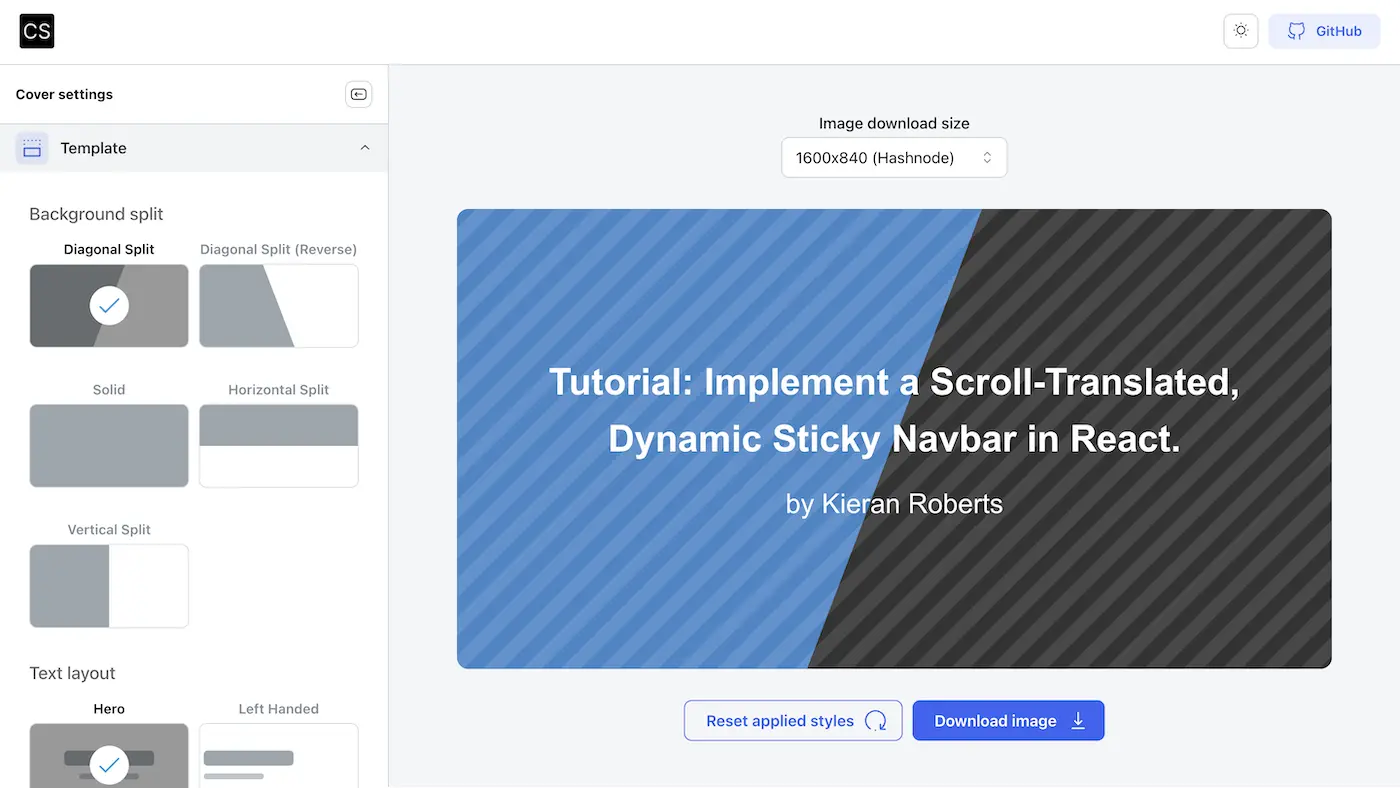
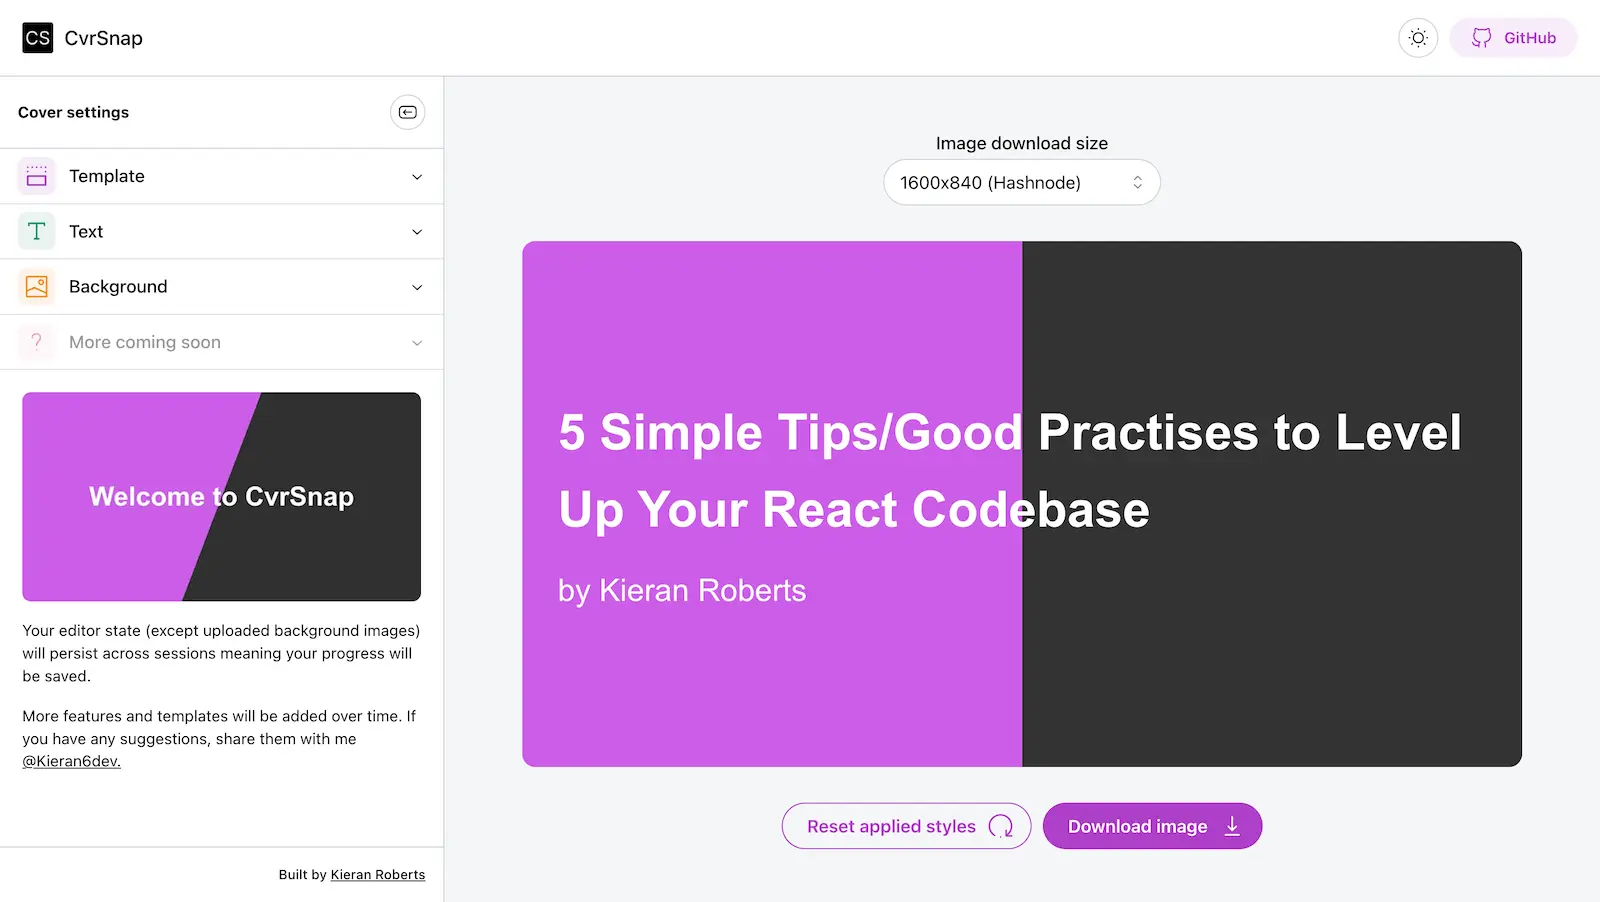
refactor: finalise theme

diff --git a/packages/frontend/app/features/editor/components/Drawer.tsx b/packages/frontend/app/features/editor/components/Drawer.tsx
@@ -9,9 +9,11 @@ import {
   Skeleton,
   Title,
   ThemeIcon,
-  ActionIcon
+  ActionIcon,
+  Image,
+  Stack
 } from '@mantine/core';
-import { Text as IconText, MediaImage, AlignBottomBox, Download, ArrowLeftTag } from 'iconoir-react';
+import { Text as IconText, MediaImage, AlignBottomBox, Download, ArrowLeftTag, QuestionMark } from 'iconoir-react';
 
 import classes from '~/features/editor/styles/EditorDrawer.module.css';
 import { TextSettings } from '~/features/editor/components/TextSettings';
@@ -21,14 +23,15 @@ import { useEditor, EditorHydration } from '~/shared/stores/EditorContext';
 import { useImageDownload } from '~/shared/hooks/useImageDownload';
 import { DownloadSuccessModal } from '~/shared/components/DownloadSuccessModal';
 import { useEditorUIStore } from '~/shared/stores/EditorUIStore';
-
+import welcomeImage from '~/images/welcome.webp';
+import { SITE_NAME } from '~/config/consts';
 const editSections = [
   {
     title: 'Template',
     content: () => <TemplateSettings />,
     icon: (
-      <ThemeIcon size="lg" radius="md" variant="light" color="var(--mantine-primary-color-8)">
-        <AlignBottomBox width={24} height={24} color="var(--mantine-primary-color-8)" />
+      <ThemeIcon size="lg" radius="md" variant="light" color="var(--mantine-color-grape-8)">
+        <AlignBottomBox width={24} height={24} color="var(--mantine-color-grape-8)" />
       </ThemeIcon>
     )
   },
@@ -49,6 +52,16 @@ const editSections = [
         <MediaImage width={24} height={24} color="var(--mantine-color-yellow-8)" />
       </ThemeIcon>
     )
+  },
+  {
+    title: 'More coming soon',
+    content: () => null,
+    icon: (
+      <ThemeIcon size="lg" radius="md" variant="light" color="var(--mantine-color-pink-8)">
+        <QuestionMark width={24} height={24} color="var(--mantine-color-pink-8)" />
+      </ThemeIcon>
+    ),
+    isDisabled: true
   }
 ];
 
@@ -80,6 +93,7 @@ export function Drawer({ imageNodeRef }: { imageNodeRef: React.RefObject<HTMLDiv
             aria-label={`Toggle ${item.title.toLowerCase()} editing`}
             icon={item.icon}
             className={classes.accordionControl}
+            disabled={!!item?.isDisabled}
           >
             <Flex gap="xs" align="center">
               <Text size="md" fw={500} className={classes['accordionControl-name']}>
@@ -113,14 +127,14 @@ export function Drawer({ imageNodeRef }: { imageNodeRef: React.RefObject<HTMLDiv
             visibleFrom="md"
             onClick={() => setDrawerOpen(false)}
             variant="default"
-            size={28}
+            size={32}
             title="Close sidebar"
             aria-label="Close sidebar"
           >
             <ArrowLeftTag width={18} height={18} />
           </ActionIcon>
         </Flex>
-        <ScrollArea visibleFrom="md" h="calc(100vh - 69px - 60px - 51px)">
+        <ScrollArea visibleFrom="md" h="calc(100vh - 69px - 60px - 55px)">
           <Accordion
             value={openSections}
             onChange={setOpenSections}
@@ -131,6 +145,24 @@ export function Drawer({ imageNodeRef }: { imageNodeRef: React.RefObject<HTMLDiv
           >
             {items}
           </Accordion>
+          <Stack m="lg" h="100%" className={classes['sidebar-help']}>
+            <Image src={welcomeImage} radius="md" alt={`Welcome to ${SITE_NAME} cover`} width={400} height={200} />
+            <Text size="sm">
+              Your editor state (except uploaded background images) will persist across sessions meaning your progress
+              will be saved.
+            </Text>
+            <Text size="sm">
+              More features and templates will be added over time. If you have any suggestions, share them with me{' '}
+              <a
+                href="https://x.com/Kieran6dev"
+                target="_blank"
+                rel="noreferrer"
+                className={classes['sidebar-help--name-link']}
+              >
+                @Kieran6dev.
+              </a>
+            </Text>
+          </Stack>
         </ScrollArea>
         <Accordion
           value={openSections}

diff --git a/packages/frontend/app/root.tsx b/packages/frontend/app/root.tsx
@@ -30,7 +30,7 @@ export const links: LinksFunction = () => [
 const theme = createTheme({
   autoContrast: true,
   luminanceThreshold: 0.3,
-  primaryColor: 'indigo',
+  primaryColor: 'grape',
   primaryShade: 7,
   components: {
     InputLabel: {
@@ -72,29 +72,42 @@ const theme = createTheme({
     },
     Button: {
       defaultProps: {
-        radius: 'md'
+        radius: 'xl'
       }
     },
     ActionIcon: {
       defaultProps: {
-        radius: 'md'
+        radius: 'xl'
       }
     },
     Select: {
       defaultProps: {
-        radius: 'md',
+        radius: 'xl',
         size: 'md'
+      },
+      styles: {
+        dropdown: {
+          borderRadius: '12px'
+        },
+        option: {
+          borderRadius: '8px'
+        }
+      }
+    },
+    SelectItem: {
+      defaultProps: {
+        radius: 'xl'
       }
     },
     TextInput: {
       defaultProps: {
-        radius: 'md',
+        radius: 'xl',
         size: 'md'
       }
     },
     ColorInput: {
       defaultProps: {
-        radius: 'md',
+        radius: 'xl',
         size: 'md'
       }
     },
@@ -105,21 +118,17 @@ const theme = createTheme({
     },
     NumberInput: {
       defaultProps: {
-        size: 'md'
+        size: 'md',
+        radius: 'xl'
       }
     },
     FileInput: {
       defaultProps: {
-        size: 'md'
-      }
-    },
-    SegmentedControl: {
-      defaultProps: {
-        radius: 'md'
+        size: 'md',
+        radius: 'xl'
       }
     }
-  },
-  defaultRadius: 'md'
+  }
 });
 
 export function Layout({ children }: { children: React.ReactNode }) {

diff --git a/packages/frontend/app/features/editor/consts/templates.ts b/packages/frontend/app/features/editor/consts/templates.ts
@@ -4,23 +4,6 @@ import { CSSVariableKey } from '~/shared/types/styles';
 
 export const LAYOUT_TEMPLATES = [
   {
-    id: 'hero',
-    name: 'Hero',
-    styles: {
-      '--cover-flex-direction': 'column',
-      '--cover-align-items': 'center',
-      '--cover-primary-text-align': 'center',
-      '--cover-secondary-position': 'relative',
-      '--cover-secondary-text-align': 'center',
-      '--cover-secondary-bottom': 'unset',
-      '--cover-secondary-right': 'unset',
-      '--cover-secondary-left': 'unset'
-    } as Partial<Record<CSSVariableKey, string>>,
-    previewStyles: {
-      cover: classnames(classes['previewPaper-content--centered'])
-    }
-  },
-  {
     id: 'left-handed',
     name: 'Left Handed',
     styles: {
@@ -52,6 +35,23 @@ export const LAYOUT_TEMPLATES = [
     } as Partial<Record<CSSVariableKey, string>>,
     previewStyles: {
       cover: classnames(classes['previewPaper-content--right'])
+    }
+  },
+  {
+    id: 'hero',
+    name: 'Hero',
+    styles: {
+      '--cover-flex-direction': 'column',
+      '--cover-align-items': 'center',
+      '--cover-primary-text-align': 'center',
+      '--cover-secondary-position': 'relative',
+      '--cover-secondary-text-align': 'center',
+      '--cover-secondary-bottom': 'unset',
+      '--cover-secondary-right': 'unset',
+      '--cover-secondary-left': 'unset'
+    } as Partial<Record<CSSVariableKey, string>>,
+    previewStyles: {
+      cover: classnames(classes['previewPaper-content--centered'])
     }
   },
   {

diff --git a/packages/frontend/app/routes/index.tsx b/packages/frontend/app/routes/index.tsx
@@ -12,7 +12,6 @@ import { Navbar } from '~/shared/layouts/Navbar';
 export const meta: MetaFunction = () => {
   const title = `${SITE_NAME} - Get your free blog post cover images.`;
   const description = `${SITE_NAME} empowers you to create great looking cover images for your blog posts in seconds, skipping the design hassle. It's completely free to download as many images as you like.`;
-  const image = editorDark;
   const url = `https://${DOMAIN}`;
   const domain = DOMAIN;
 
@@ -32,7 +31,7 @@ export const meta: MetaFunction = () => {
     },
     {
       property: 'og:image',
-      content: image
+      content: '/og-image.png'
     },
     {
       property: 'og:url',
@@ -64,7 +63,7 @@ export const meta: MetaFunction = () => {
     },
     {
       property: 'twitter:image',
-      content: image
+      content: '/og-image.png'
     },
     {
       property: 'twitter:url',
@@ -99,7 +98,7 @@ export default function Index() {
               mx="auto"
             >
               Publish blog posts{' '}
-              <Mark fz="0.95em" style={{ zIndex: -1 }} color="blue">
+              <Mark fz="0.95em" style={{ zIndex: -1 }} color="grape">
                 faster
               </Mark>{' '}
               without cover image design hassle

diff --git a/packages/frontend/app/shared/stores/EditorContext.tsx b/packages/frontend/app/shared/stores/EditorContext.tsx
@@ -211,14 +211,14 @@ export const useEditor = create(
           /* Cover Wrapper */
           '--cover-display': 'flex',
           '--cover-justify-content': 'center',
-          '--cover-align-items': 'center',
+          '--cover-align-items': 'flex-start',
           '--cover-flex-direction': 'column',
 
           /* Cover Primary Text */
           '--cover-primary-text-color': DEFAULT_EDITOR_STATE.primaryText.color,
           '--cover-primary-text-font-size': `${DEFAULT_EDITOR_STATE.primaryText.fontSize}px`,
           '--cover-primary-text-font': DEFAULT_EDITOR_STATE.primaryText.font,
-          '--cover-primary-text-align': 'center',
+          '--cover-primary-text-align': 'left',
 
           /* Cover Secondary Text */
           '--cover-secondary-text-color': DEFAULT_EDITOR_STATE.secondaryText.color,
@@ -251,7 +251,7 @@ export const useEditor = create(
               backgroundId: BACKGROUND_TEMPLATES[0].id
             }
           });
-        }, 1000);
+        }, 500);
 
         toast.success('Cover reset.', {
           id: 'reset-cover',

diff --git a/packages/frontend/app/shared/components/ThemeToggle.tsx b/packages/frontend/app/shared/components/ThemeToggle.tsx
@@ -1,4 +1,4 @@
-import { ActionIcon, Box, useMantineColorScheme } from '@mantine/core';
+import { ActionIcon, Center, useMantineColorScheme } from '@mantine/core';
 import { SunLight, HalfMoon } from 'iconoir-react';
 import { SITE_THEMES } from '~/config/consts';
 
@@ -12,12 +12,12 @@ export function ThemeToggle() {
       size={36}
       aria-label="Toggle color scheme"
     >
-      <Box darkHidden>
-        <SunLight width={16} height={16} color="var(--mantine-color-text)" />
-      </Box>
-      <Box lightHidden>
-        <HalfMoon width={16} height={16} color="var(--mantine-color-text)" />
-      </Box>
+      <Center darkHidden h="100%" w="100%">
+        <SunLight width={18} height={18} color="var(--mantine-color-text)" />
+      </Center>
+      <Center lightHidden h="100%" w="100%">
+        <HalfMoon width={18} height={18} color="var(--mantine-color-text)" />
+      </Center>
     </ActionIcon>
   );
 }

diff --git a/packages/frontend/app/routes/create/route.tsx b/packages/frontend/app/routes/create/route.tsx
@@ -10,7 +10,7 @@ import { Navbar } from '~/shared/layouts/Navbar';
 export const meta: MetaFunction = () => {
   const title = `${SITE_NAME} - Create`;
   const description = `Use ${SITE_NAME}'s easy-to-use editing tools and presets to download free cover images for your blog without the design headache.`;
-  const image = '/editor-dark.webp';
+  const image = '/og-image.png';
   const url = `https://${DOMAIN}/create`;
   const domain = DOMAIN;
 

diff --git a/packages/frontend/app/features/preview/components/ImagePreview.tsx b/packages/frontend/app/features/preview/components/ImagePreview.tsx
@@ -19,7 +19,7 @@ export function ImagePreview({ imageNodeRef }: { imageNodeRef: React.RefObject<H
 
   return (
     <EditorHydration skeleton={<Skeleton radius={12} className={classes.coverSkeleton} animate />}>
-      <Skeleton visible={isResettingImage} maw={900} animate>
+      <Skeleton visible={isResettingImage} maw="max-content" radius={12} animate>
         <Box
           component="div"
           ref={imageNodeRef}

diff --git a/packages/frontend/app/features/preview/components/CoverImage.tsx b/packages/frontend/app/features/preview/components/CoverImage.tsx
@@ -53,7 +53,7 @@ export function CoverImage({ imageNodeRef }: { imageNodeRef: React.RefObject<HTM
             onClick={() => setDrawerOpen(true)}
             title="Open sidebar"
             variant="default"
-            size={28}
+            size={32}
             aria-label="Open sidebar"
           >
             <ArrowRightTag width={18} height={18} />

diff --git a/packages/frontend/app/shared/components/MobileGitHubButton.tsx b/packages/frontend/app/shared/components/MobileGitHubButton.tsx
@@ -5,7 +5,7 @@ import { SITE_NAME } from '~/config/consts';
 export function MobileGithubButton() {
   return (
     <ActionIcon aria-label={`${SITE_NAME} GitHub repo`} hiddenFrom="md" variant="outline" size="lg">
-      <Github />
+      <Github width={18} height={18} />
     </ActionIcon>
   );
 }

diff --git a/packages/frontend/app/features/editor/consts/index.ts b/packages/frontend/app/features/editor/consts/index.ts
@@ -63,7 +63,7 @@ export const DEFAULT_EDITOR_STATE = {
   background: {
     image: null,
     colors: {
-      color1: 'rgba(81, 133, 196, 1)',
+      color1: 'rgba(204, 93, 232, 1)',
       color2: 'rgba(51, 51, 51, 1)'
     },
     pattern: DEFAULT_PATTERN

diff --git a/packages/frontend/app/features/editor/styles/EditorDrawer.module.css b/packages/frontend/app/features/editor/styles/EditorDrawer.module.css
@@ -21,6 +21,12 @@
       color: var(--mantine-color-text);
     }
   }
+
+  &-help {
+    &--name-link {
+      color: var(--mantine-color-text);
+    }
+  }
 }
 
 .accordionControl {
